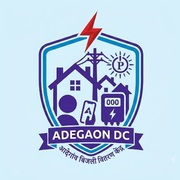
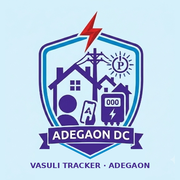
login पन्ने पर ऐप की साफ़ पहचान, लोगो पर अंग्रेज़ी नाम (v9.193) (#226)
* login पन्ने पर ऐप की साफ़ पहचान, लोगो पर अंग्रेज़ी नाम (v9.193) — JE की अनुमति बाक़ी

Google के लाल ठप्पे (8/10, phishing) से बचाव का चरण A:
- login पन्ने पर अंग्रेज़ी पंक्ति "This is not an official website of the department. It is an
  internal tool used by Adegaon DC staff to track bill recovery." + Privacy Policy का लिंक
- लोगो: नीचे की हिंदी पंक्ति "आदेगांव बिजली वितरण केंद्र" हटाकर "VASULI TRACKER · ADEGAON";
  सारे icons (512, maskable, 192, apple-touch, login-logo.webp 13.9→10.4 KB) नए
- privacy.html के ऊपर अंग्रेज़ी "About this app"
- नया टेस्ट: पंक्ति दिखे, "payment" शब्द न हो, लिंक privacy.html पर, पन्ना मौजूद

APP_VER 9.192→9.193, CACHE_NAME v209→v210

Claude-Session: https://claude.ai/code/session_01KugSDUeDwADxyatVnjixje

* login पंक्ति JE का चुना विकल्प (ग); STATUS में v9.193

"This app is made for the internal office use of Adegaon DC. It is not the department's
official website." — नीली पट्टी और लोगो का रिबन JE के कहने पर वैसे ही रखे।

Claude-Session: https://claude.ai/code/session_01KugSDUeDwADxyatVnjixje

* STATUS: v9.193 का PR नंबर #226

Claude-Session: https://claude.ai/code/session_01KugSDUeDwADxyatVnjixje

---------

Changed region(s): [[0.1667, 0.7778, 0.8333, 0.9444]]

diff --git a/index.html b/index.html
@@ -66,7 +66,7 @@ try{
   <div class="org-banner" style="position:fixed;top:0;left:0;right:0;z-index:50;">&#9889; आदेगांव बिजली वितरण केंद्र</div>
   <!-- 92px में दिखता है — पहले 327 KB की icon-512.png थी; अब 276px WebP (~14 KB, तेज़ स्क्रीन के लिए 3 गुना)।
        WebP न खुले (बहुत पुराना browser) तो पहले icon-192.png, फिर ⚡ -->
-  <img class="login-logo" src="icons/login-logo.webp" width="92" height="92" alt="आदेगांव DC logo" onerror="if(!this.dataset.fb){this.dataset.fb='1';this.src='icons/icon-192.png';}else{this.outerHTML='<div style=\'font-size:60px;margin-bottom:10px\'>&#9889;</div>';}">
+  <img class="login-logo" src="icons/login-logo.webp" width="92" height="92" alt="Vasuli Tracker Adegaon logo" onerror="if(!this.dataset.fb){this.dataset.fb='1';this.src='icons/icon-192.png';}else{this.outerHTML='<div style=\'font-size:60px;margin-bottom:10px\'>&#9889;</div>';}">
   <div class="login-title">आदेगांव DC वसूली ट्रैकर</div>
   <div class="login-sub">लखनादौन डिवीजन सिवनी सर्कल</div>
   <div id="ver-badge" style="font-size:10px;font-weight:600;color:var(--gold);border:1px solid var(--border);background:var(--card);border-radius:12px;padding:3px 12px;margin:-14px 0 20px;"></div>
@@ -119,6 +119,10 @@ try{
     <input type="text" id="uname-inp" class="f-input" placeholder="जैसे: राजेश कुमार">
     <button class="login-btn" onclick="doLogin()">&#128272; प्रवेश करें</button>
   </div>
+  <!-- ऐप की पहचान साफ़ लिखी रहे — 8/10 को Google ने github.io पर "धोखाधड़ी वाली साइट" का लाल ठप्पा
+       लगाया था (login पन्ना + विभाग जैसा नाम + मुफ़्त होस्ट = phishing जैसा दिखना)। JE के कहने पर
+       अंग्रेज़ी में, ताकि Google का स्वचालित जांचक भी पढ़ सके; privacy नीति का लिंक भी यहीं -->
+  <div class="login-disclaimer" translate="no">This app is made for the internal office use of Adegaon DC. It is not the department's official website.<br><a href="privacy.html" target="_blank" rel="noopener">Privacy Policy</a></div>
   <div id="home-sc" style="width:100%;max-width:360px;margin-top:14px;"></div>
 </div>
 

diff --git a/css/style.css b/css/style.css
@@ -71,6 +71,8 @@ body{font-family:"Noto Sans Devanagari",sans-serif;background:var(--bg);color:va
 .login-sub{font-size:11px;color:var(--muted);text-align:center;margin-bottom:22px;animation:fadeUp .6s ease-out;}
 .login-card{background:var(--card);border:1px solid var(--border);border-radius:24px;padding:22px;width:100%;max-width:360px;box-shadow:var(--shadow-glow);animation:fadeUp .65s ease-out;position:relative;overflow:hidden;}
 .login-card::before{content:"";position:absolute;top:0;left:0;right:0;height:3px;background:var(--grad-brand2);}
+.login-disclaimer{max-width:360px;width:100%;margin-top:12px;font-size:11px;line-height:1.5;color:var(--muted);text-align:center;}
+.login-disclaimer a{color:var(--muted);text-decoration:underline;}
 .f-label{font-size:10px;color:var(--muted);font-weight:700;text-transform:uppercase;letter-spacing:.6px;margin-bottom:6px;display:block;}
 .f-input,.f-select{width:100%;background:var(--surface);border:1.5px solid var(--border);border-radius:12px;padding:11px 13px;color:var(--text);font-family:"Noto Sans Devanagari",sans-serif;font-size:14px;margin-bottom:14px;outline:none;appearance:none;transition:border-color .15s,box-shadow .15s;}
 .f-input:focus,.f-select:focus{border-color:var(--gold);box-shadow:0 0 0 3px rgba(31,111,178,.15);}

diff --git a/privacy.html b/privacy.html
@@ -16,6 +16,10 @@
 </head>
 <body>
 <h1>Privacy Policy — वसूली ट्रैकर</h1>
+<p class="box" lang="en"><strong>About this app (Vasuli Tracker — Adegaon):</strong> This is not an official website
+of the department. It is an internal tool used by the field staff (linemen and Junior Engineer) of Adegaon DC,
+Lakhnadon Division, Seoni Circle, to record and track electricity bill recovery. It is not a public service,
+it does not collect any payment, bank, UPI or card details, and it does not imitate any other website or app.</p>
 <p class="box"><strong>यह एक आंतरिक विभागीय उपकरण है</strong> — लखनादौन डिवीजन सिवनी सर्कल (आदेगांव DC)
 के फ़ील्ड स्टाफ (लाइनमैन/JE) द्वारा बकाया बिजली बिल वसूली की जानकारी रिकॉर्ड करने के लिए। यह कोई
 सार्वजनिक सेवा नहीं है और किसी अन्य वेबसाइट/ऐप की नकल नहीं करता।</p>

diff --git a/js/config.js b/js/config.js
@@ -14,7 +14,7 @@ var HQ_AUTH_EMAIL = {
   "बीबी":"hq-bibi@adegaondc.internal",
   "मढ़ी":"hq-madhi@adegaondc.internal"
 };
-var APP_VER = "9.192"; // हर अपडेट पर यह नंबर बढ़ाएं
+var APP_VER = "9.193"; // हर अपडेट पर यह नंबर बढ़ाएं
 document.getElementById("ver-badge").textContent="Version "+APP_VER+" • Offline + Auto Sync";
 var MAX_RECORDS = 1000;
 // Per-category limits: "कुल उपभोक्ता"=3500, others=1000

diff --git a/sw.js b/sw.js
@@ -1,4 +1,4 @@
-var CACHE_NAME="adegaon-dc-v209";
+var CACHE_NAME="adegaon-dc-v210";
 // ध्यान दें: ./vendor/papaparse.min.js (20KB) और ./vendor/xlsx.full.min.js (862KB) जान-बूझकर
 // यहां शामिल नहीं हैं — ये सिर्फ़ Excel/CSV वाले features (backup/upload) इस्तेमाल होने पर
 // js/storage.js की ensureLibs() से lazy-load होती हैं। पहले हर version-update पर हर device

diff --git a/STATUS.md b/STATUS.md
@@ -4,7 +4,7 @@
 > (`git log --oneline -30`) — यहां सिर्फ़ **अभी की स्थिति**, **हाल के फ़ैसले** और **जो सीखा** है।
 > काम पूरा होने पर इसे अपडेट करते चलें।
 
-**आख़िरी अपडेट:** 9 अक्टूबर 2026 · **Version:** 9.192 · **CACHE_NAME:** adegaon-dc-v209
+**आख़िरी अपडेट:** 9 अक्टूबर 2026 · **Version:** 9.193 · **CACHE_NAME:** adegaon-dc-v210
 
 ---
 
@@ -34,12 +34,32 @@
 | #223 | v9.190 — App Check token नाकामी का लॉग | 9 अक्टू ✅ |
 | #224 | v9.191 — असली होस्ट GitHub Pages दर्ज, झलक का पता | 9 अक्टू ✅ |
 | #225 | v9.192 — App Check की कमी से वसूली अटके नहीं | 9 अक्टू ✅ |
+| #226 | v9.193 — login पर ऐप की पहचान, लोगो पर अंग्रेज़ी नाम | 9 अक्टू ✅ |
 
 dev branch main के बराबर है। नया काम शुरू करते वक़्त पहले
 `git fetch origin main && git checkout claude/recovery-tractor-cloud-file-cx3d5z && git reset --hard origin/main`
 कर लें (पिछले squash-merge से conflict बचाने के लिए)।
 
 ---
+
+## 1च. 9 अक्टूबर (चौथा हिस्सा) — Google के लाल ठप्पे से बचाव
+
+### v9.193 — रोडमैप का चरण A *(PR #226)*
+8/10 को Google ने ठप्पा लगाया था। उसकी वजह यह थी कि ऐप मुफ़्त होस्ट (github.io) पर है, विभाग जैसा नाम
+है, और पन्ना पासवर्ड मांगता है, यानी phishing जैसा दिखता है। JE के फ़ैसले:
+- login पन्ने पर अंग्रेज़ी पंक्ति (JE का चुना विकल्प ग): *"This app is made for the internal office use of
+  Adegaon DC. It is not the department's official website."* साथ में Privacy Policy का लिंक।
+  "बिल भुगतान नहीं होता" वाली पंक्ति JE ने नहीं चाही
+- लोगो की नीचे वाली हिंदी पंक्ति "आदेगांव बिजली वितरण केंद्र" बदलकर **"VASULI TRACKER · ADEGAON"** की।
+  सारे icons नए बनाए, और `login-logo.webp` 13.9 KB से घटकर 10.4 KB हुआ। रिबन पर "ADEGAON DC" **वैसा ही** रखा (JE का फ़ैसला)
+- ऊपर की नीली पट्टी "⚡ आदेगांव बिजली वितरण केंद्र" **वैसी ही** रखी (JE का फ़ैसला)
+- `privacy.html` के सबसे ऊपर अंग्रेज़ी में "About this app" जोड़ा
+- A2 (MPEZ लोगो) यहां पहले से लागू नहीं था, क्योंकि हमारा लोगो अपना है। A4 (शीर्षक और meta) v9.189 में हो चुका था
+
+**ध्यान:** सिवनी सर्कल वाला ऐप भी `pradeepks2015-ship-it.github.io` पर हो, तो Google के लिए दोनों एक ही
+साइट हैं। उस ऐप का MPEZ लोगो हटाना आदेगांव के लिए भी ज़रूरी है।
+**चरण C (अपना domain):** ठप्पा दोबारा लगे तभी करना है। उससे पहले हर फ़ोन की कतार ख़ाली करनी होगी, क्योंकि
+localStorage हर पते का अलग होता है।
 
 ## 1ङ. 9 अक्टूबर (तीसरा हिस्सा) — App Check उछाल की वजह पक्की
 
